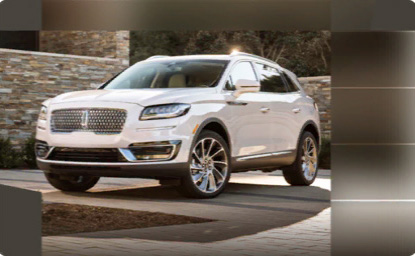
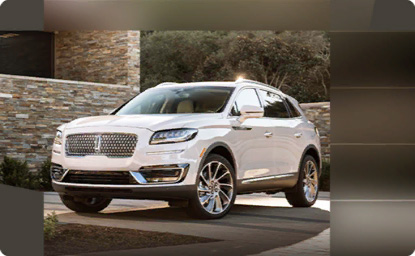
testBowlr points, Nautilus pictures

diff --git a/src/components/MainTestPoints.vue b/src/components/MainTestPoints.vue
@@ -113,6 +113,9 @@
       <div v-if="pointsResult && informCorrectPoints && !isNaN(informCorrectPoints)" class="MainTestPoints_FactorsBox">
         <div class="MainTestPoints_Factor">New track factor: <b>~{{ fixedTrackFactor }}</b></div>
       </div>
+      <div v-if="campaignList.length > 0" class="MainTestPoints_FactorsBox">
+        <div v-for="item in campaignList" class="MainTestPoints_Factor">{{ item }}</div>
+      </div>
     </div>
 
 
@@ -197,6 +200,7 @@ export default {
       fakeTime2: undefined,
       informCorrectPoints: null,
       showCarsFix: true,
+      campaignList: []
     }
   },
   watch: {
@@ -294,6 +298,7 @@ export default {
           document.querySelector("div.MainTestPoints_Header > div:nth-child(2) div.Row_Content").focus();
         })
       })
+      this.listOptions();
     },
     openDialogTrackSearch() {
       this.customTrackDialog = true;
@@ -313,74 +318,72 @@ export default {
     getResolvedTrack(track) {
       this.chartTrack = track;
     },
-    getDownTimes() {
-      this.loading = false;
-      let vm = this;
-
-      axios.get(Vue.preUrl + "/downTimes")
-      .then(res => {
-        this.downTimes = res.data;
-        Object.keys(this.downTimes).map(rid => {
-          this.all_cars_obj[rid].color = Vue.resolveClass(this.all_cars_obj[rid].rq, this.all_cars_obj[rid].class, "color");
-          this.all_cars_obj[rid].photo = this.cgResolvePhotoUrl(rid);
-          this.downTimes[rid].map(downtime => {
-            downtime.car.selectedTune = downtime.selectedTune;
-
-            Vue.set(downtime, "resolvedTracks", this.validateTracks([downtime.track]));
-
-            // list all options
-            let currentTracksOptions = [];
-            let options = [];
-            this.campaign.map((city, icity) => {
-              city.matches.map((match, imatch) => {
-                match.races.map((rac, irace) => {
-                  if (rac.name === downtime.track) {
-                    options.push({
-                      city: city.name,
-                      icity,
-                      imatch,
-                      irace,
-                      code: `${icity}${imatch}`
-                    })
-                  }
-                })
-              })
-            })
-            currentTracksOptions.push(options);
-
-            // delivery best option
-            downtime.resolvedTracks.map((x, ix) => {
-              let bestOption;
-              currentTracksOptions[ix].map(y => {
-                if (
-                  !bestOption ||
-                  this.isChamp(bestOption.city) && !this.isChamp(y.city) ||
-                  y.irace < bestOption.irace && !this.isChamp(y.city) ||
-                  this.isChamp(bestOption.city) && this.isChamp(y.city) && y.icity > bestOption.icity ||
-                  (y.irace <= bestOption.irace && y.icity > bestOption.icity) ||
-                  (y.irace <= bestOption.irace && y.imatch > bestOption.imatch)
-                ) {
-                  bestOption = y;
-                }
-              })
-              if (bestOption) {
-                x.campaign = `${bestOption.city} ${bestOption.imatch+1}`
-              } else {
-                x.campaign = `Not in campaign`;
-              }
-            })
-
+    listOptions() {
+      // list all options
+      let currentTracksOptions = [];
+      let options = [];
+      this.campaign.map((city, icity) => {
+        city.matches.map((match, imatch) => {
+          match.races.map((rac, irace) => {
+            if (rac.name === this.chartTrack.code) {
+              options.push(`${city.name} ${imatch+1} r${irace+1}`)
+            }
           })
         })
-        this.showCarsFix = false;
-        this.$nextTick().then(() => {
-          this.showCarsFix = true;
-        })
       })
-      .catch(error => {
-        this.loading = false;
-        console.log(error);
-      })
+
+      this.campaignList = options;
+
+      // this.loading = false;
+      // let vm = this;
+
+      // axios.get(Vue.preUrl + "/downTimes")
+      // .then(res => {
+      //   this.downTimes = res.data;
+      //   Object.keys(this.downTimes).map(rid => {
+      //     this.all_cars_obj[rid].color = Vue.resolveClass(this.all_cars_obj[rid].rq, this.all_cars_obj[rid].class, "color");
+      //     this.all_cars_obj[rid].photo = this.cgResolvePhotoUrl(rid);
+      //     this.downTimes[rid].map(downtime => {
+      //       downtime.car.selectedTune = downtime.selectedTune;
+
+      //       Vue.set(downtime, "resolvedTracks", this.validateTracks([downtime.track]));
+
+            
+      //       currentTracksOptions.push(options);
+
+      //       // delivery best option
+      //       downtime.resolvedTracks.map((x, ix) => {
+      //         let bestOption;
+      //         currentTracksOptions[ix].map(y => {
+      //           if (
+      //             !bestOption ||
+      //             this.isChamp(bestOption.city) && !this.isChamp(y.city) ||
+      //             y.irace < bestOption.irace && !this.isChamp(y.city) ||
+      //             this.isChamp(bestOption.city) && this.isChamp(y.city) && y.icity > bestOption.icity ||
+      //             (y.irace <= bestOption.irace && y.icity > bestOption.icity) ||
+      //             (y.irace <= bestOption.irace && y.imatch > bestOption.imatch)
+      //           ) {
+      //             bestOption = y;
+      //           }
+      //         })
+      //         if (bestOption) {
+      //           x.campaign = `${bestOption.city} ${bestOption.imatch+1}`
+      //         } else {
+      //           x.campaign = `Not in campaign`;
+      //         }
+      //       })
+
+      //     })
+      //   })
+      //   this.showCarsFix = false;
+      //   this.$nextTick().then(() => {
+      //     this.showCarsFix = true;
+      //   })
+      // })
+      // .catch(error => {
+      //   this.loading = false;
+      //   console.log(error);
+      // })
     },
     cgResolvePhotoUrl(rid) {
       try {

diff --git a/src/filters/index.js b/src/filters/index.js
@@ -206,6 +206,7 @@ export default {
 
                 result = Math.round(result);
 
+                if (trackCode.includes("testBowlr")) result = result - 5;
                 if (result < 50) result = 50;
                 if (isLose) result = result * -1;
                 return { v: result, i: true };
